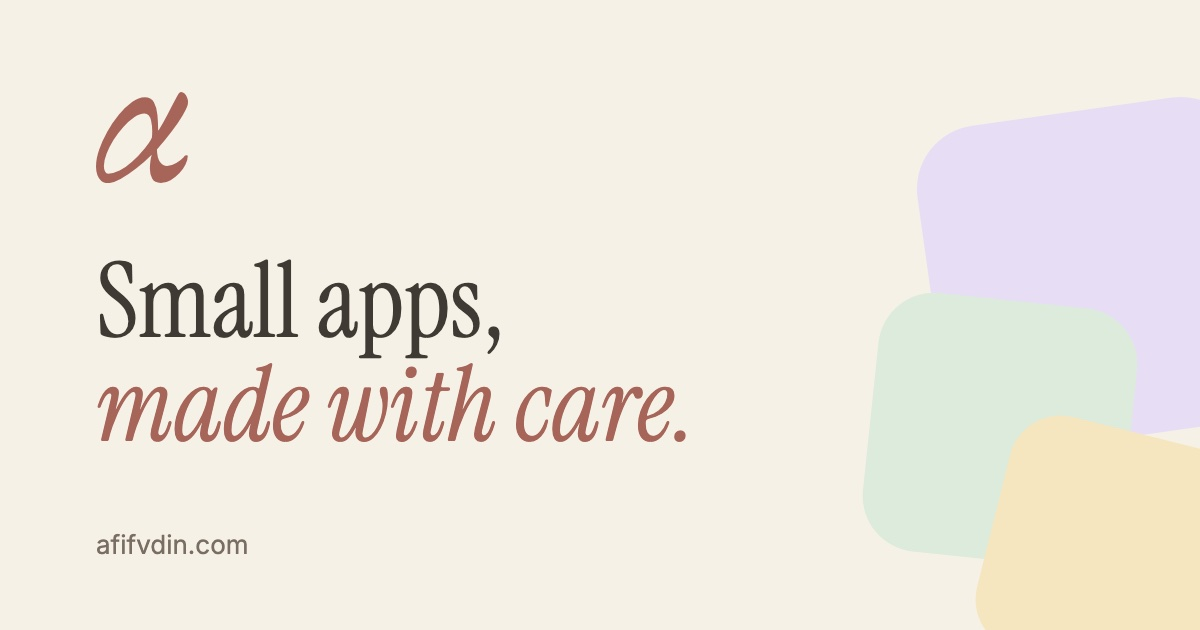
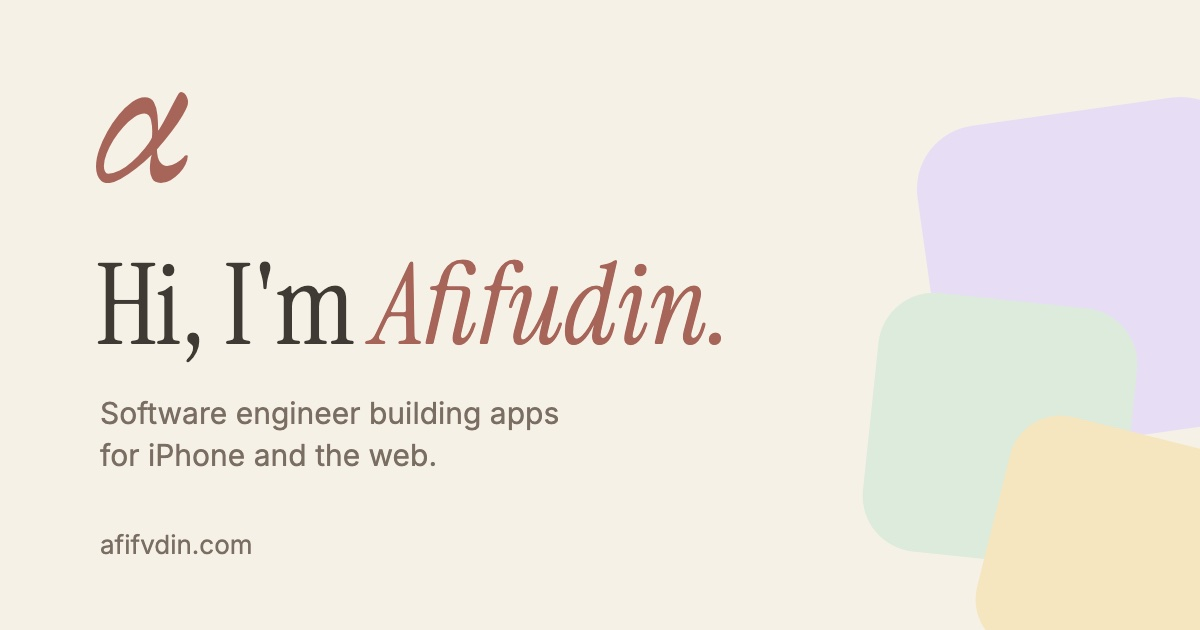
Rewrite intro to be about me, not the apps

Changed region(s): [[0.0617, 0.3921, 0.6167, 0.754], [0.0617, 0.8444, 0.2158, 0.9048]]

diff --git a/src/routes/index.tsx b/src/routes/index.tsx
@@ -13,18 +13,18 @@ function Home() {
     <div className="mx-auto max-w-5xl px-4 sm:px-6">
       <section className="py-16 sm:py-24">
         <h1 className="max-w-3xl font-serif text-5xl leading-[1.02] text-balance sm:text-7xl">
-          Small apps, <em className="text-brand">made with care.</em>
+          Hi, I'm <em className="text-brand">Afifudin.</em>
         </h1>
         <p className="text-muted-foreground mt-6 max-w-md text-lg text-pretty">
-          I build quiet, focused apps for iPhone and the web. Each one does a
-          single thing well, with no ads and no tracking.
+          I'm a software engineer, and I love building things. Lately that means
+          apps for iPhone and the web. Here's what I've made so far.
         </p>
         <div className="mt-8 flex flex-wrap gap-2">
           <a
             href="#apps"
             className="bg-foreground text-background rounded-full px-5 py-2.5 text-sm font-medium transition-opacity hover:opacity-85"
           >
-            See the apps
+            See my apps
           </a>
           <a
             href="mailto:hi@afifvdin.com"

diff --git a/src/routes/__root.tsx b/src/routes/__root.tsx
@@ -28,17 +28,18 @@ export const Route = createRootRouteWithContext<MyRouterContext>()({
         content: "width=device-width, initial-scale=1",
       },
       {
-        title: "Afifudin — Apps",
+        title: "Afifudin",
       },
       {
         name: "description",
-        content: "Small, focused apps for iPhone and the web by Afifudin.",
+        content:
+          "Afifudin is a software engineer who builds apps for iPhone and the web.",
       },
       { name: "theme-color", content: "#f6f1e6" },
-      { property: "og:title", content: "Afifudin — Apps" },
+      { property: "og:title", content: "Afifudin" },
       {
         property: "og:description",
-        content: "Small apps, made with care.",
+        content: "Software engineer building apps for iPhone and the web.",
       },
       { property: "og:image", content: "https://afifvdin.com/og.jpg" },
       { property: "og:url", content: "https://afifvdin.com" },
